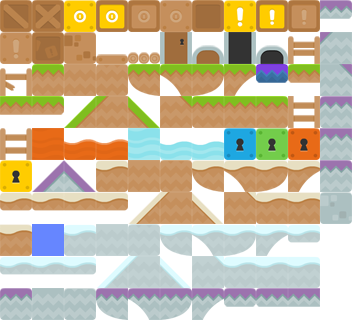
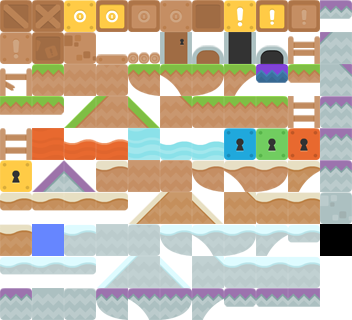
spritesheet changed

diff --git a/public/js/lvl1.js b/public/js/lvl1.js
@@ -9,7 +9,7 @@
     game.stage.backgroundColor = '#6686ff';
     map = game.add.tilemap('mario');
     map.addTilesetImage('worldfinal', 'tiles');
-    map.setCollisionBetween(39, 44);
+    map.setCollisionBetween(30, 44);
     layer = map.createLayer('Tile Layer 1');
     layer.resizeWorld();
 
